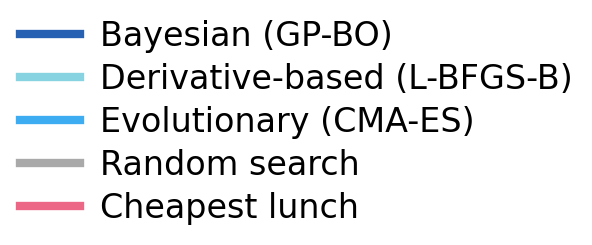
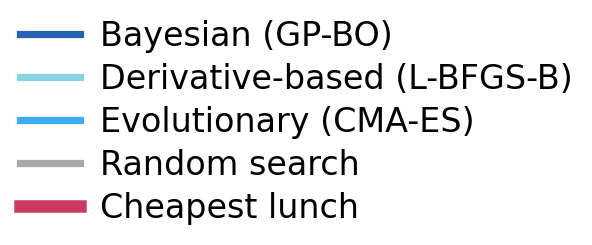
Make the agent line #C93A5E at 4.5pt in the agent_wins panels
Added --agent-color/--agent-linewidth to plot_regret_panels.py so the
agent line's color/width can be overridden independently of the
baselines'; applied only to the 8 agent_wins panels (the "winner"
figures), which is where this stands out from the 2.6pt baselines.

diff --git a/main/scripts/plot_regret_panels.py b/main/scripts/plot_regret_panels.py
@@ -155,7 +155,8 @@ def agent_regret_curve(trace_path: Path, f_opt: float):
 
 
 def plot_task(task: str, out_path: Path, agent_traces_dir: Path | None = None,
-              optimizers: list[str] | None = None, display: dict[str, str] | None = None):
+              optimizers: list[str] | None = None, display: dict[str, str] | None = None,
+              agent_color: str = AGENT_LINE_COLOR, agent_linewidth: float = LINEWIDTH + 0.4):
     optimizers = optimizers or OPTIMIZERS
     display = display or DISPLAY
     task_dir = ROOT / "results" / task
@@ -175,7 +176,7 @@ def plot_task(task: str, out_path: Path, agent_traces_dir: Path | None = None,
         curve = agent_regret_curve(agent_traces_dir / task / "trace.csv", f_opt)
         if curve is not None:
             x, y = curve
-            ax.plot(x, y, color=AGENT_LINE_COLOR, linewidth=LINEWIDTH + 0.4, label="Cheapest lunch")
+            ax.plot(x, y, color=agent_color, linewidth=agent_linewidth, label="Cheapest lunch")
 
     ax.set_yscale("log")
     ax.set_xlabel("Budget", fontsize=13)
@@ -194,12 +195,12 @@ def plot_task(task: str, out_path: Path, agent_traces_dir: Path | None = None,
     print(f"Wrote {out_path}")
 
 
-def write_legend(labels_colors: list[tuple[str, str]], out_path: Path, linewidth: float = LINEWIDTH + 0.4):
+def write_legend(labels_colors_widths: list[tuple[str, str, float]], out_path: Path):
     """A standalone legend image: one entry per row, vertically stacked,
     tightly spaced ('back to back'), no plot axes."""
-    fig = plt.figure(figsize=(3.2, 0.42 * len(labels_colors) + 0.1), facecolor="white")
-    handles = [plt.Line2D([0], [0], color=color, linewidth=linewidth) for _, color in labels_colors]
-    labels = [label for label, _ in labels_colors]
+    fig = plt.figure(figsize=(3.2, 0.42 * len(labels_colors_widths) + 0.1), facecolor="white")
+    handles = [plt.Line2D([0], [0], color=color, linewidth=lw) for _, color, lw in labels_colors_widths]
+    labels = [label for label, _, _ in labels_colors_widths]
     legend = fig.legend(handles, labels, loc="center", frameon=False, fontsize=12,
                          labelspacing=0.3, handlelength=1.8, handletextpad=0.6, borderpad=0, borderaxespad=0)
     fig.savefig(out_path, dpi=200, bbox_inches="tight", facecolor="white")
@@ -216,6 +217,8 @@ def main():
     p.add_argument("--flat", action="store_true", help="Write <outdir>/<task>.png instead of <outdir>/<task>/regret_vs_eval.png")
     p.add_argument("--families", action="store_true",
                     help="Only 4 representative baselines (Bayesian/derivative/evolutionary/random) instead of all 9")
+    p.add_argument("--agent-color", default=AGENT_LINE_COLOR)
+    p.add_argument("--agent-linewidth", type=float, default=LINEWIDTH + 0.4)
     args = p.parse_args()
 
     tasks = list(args.tasks)
@@ -231,14 +234,14 @@ def main():
     display = FAMILY_DISPLAY if args.families else None
     for task in tasks:
         out_path = outdir / f"{task}.png" if args.flat else outdir / task / "regret_vs_eval.png"
-        plot_task(task, out_path, agent_traces_dir, optimizers, display)
+        plot_task(task, out_path, agent_traces_dir, optimizers, display, args.agent_color, args.agent_linewidth)
 
     if tasks:
         opt_keys = optimizers or OPTIMIZERS
         disp = display or DISPLAY
-        labels_colors = [(disp[k], COLORS[k]) for k in opt_keys]
+        labels_colors = [(disp[k], COLORS[k], LINEWIDTH) for k in opt_keys]
         if agent_traces_dir is not None:
-            labels_colors.append(("Cheapest lunch", AGENT_LINE_COLOR))
+            labels_colors.append(("Cheapest lunch", args.agent_color, args.agent_linewidth))
         write_legend(labels_colors, outdir / "legend.png")
 
 
